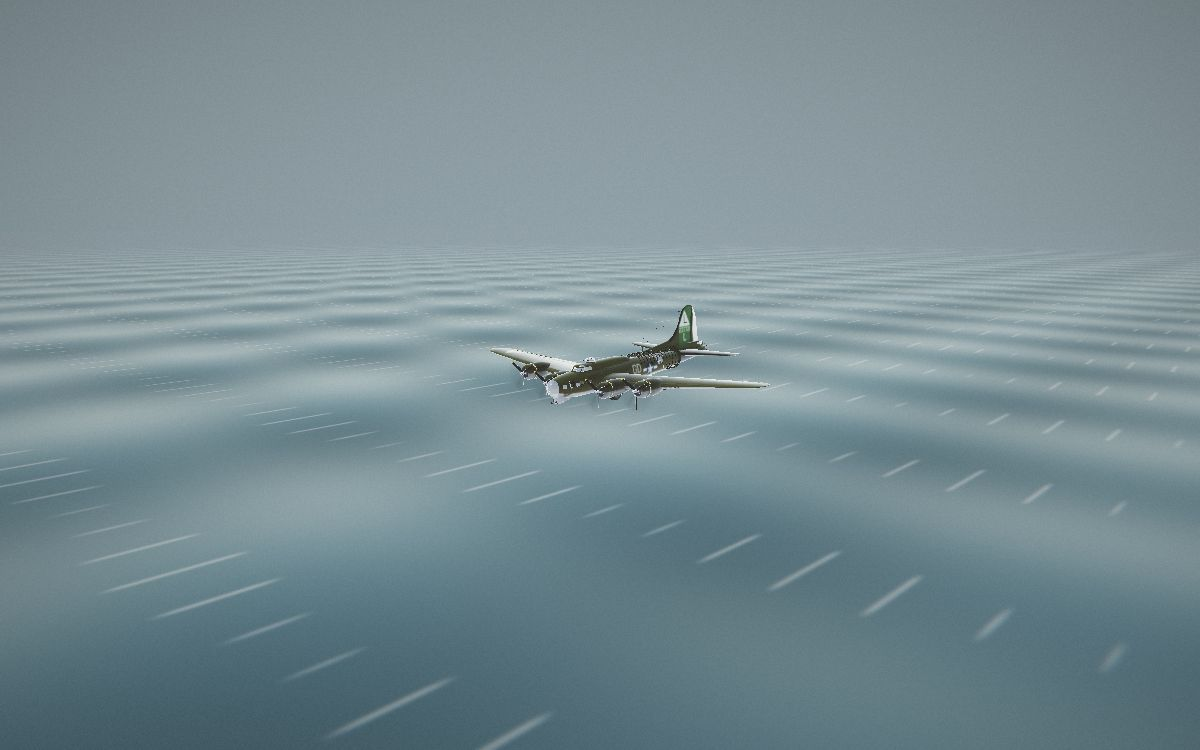
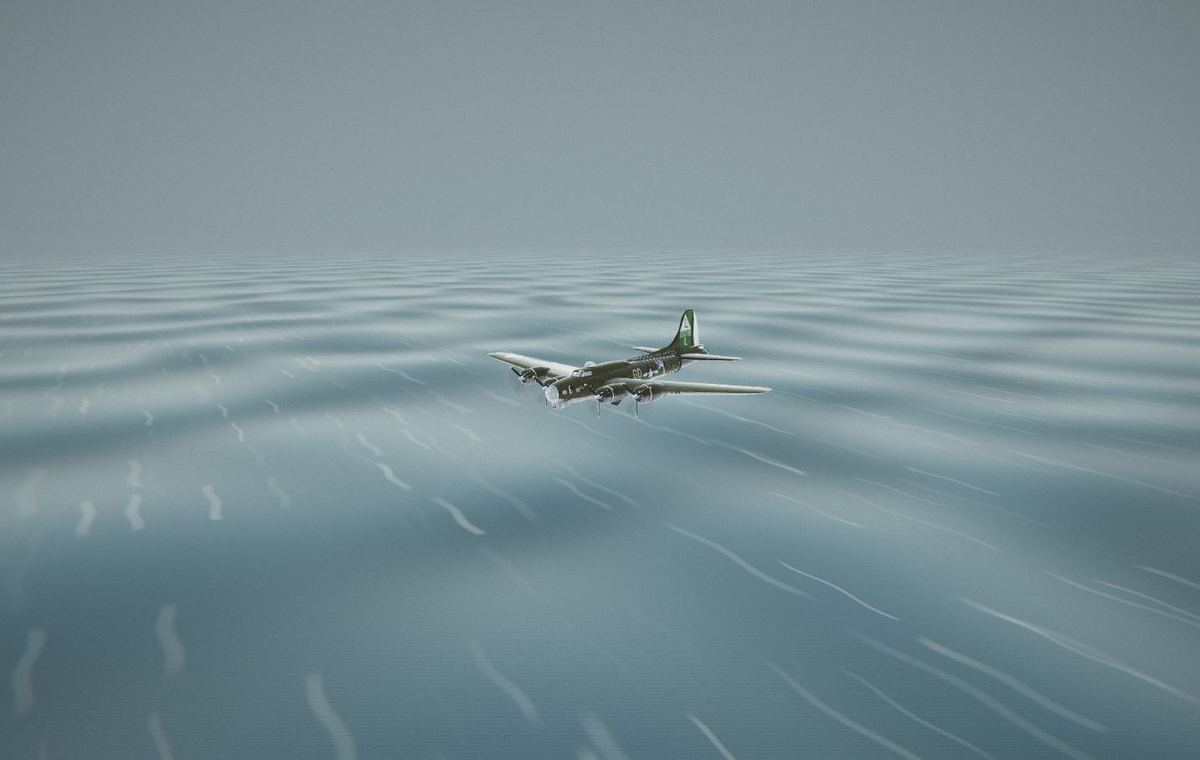
Revise ditching water impact and irregular ocean foam
Replace solid spray meshes with ballistic sheets and pooled mist, add surface foam and wake, and vary wind-aligned whitecaps with distance fade. Refresh day, night and Low visual evidence.

diff --git a/src/world/DitchingSea.ts b/src/world/DitchingSea.ts
@@ -1,4 +1,5 @@
 import * as THREE from 'three';
+import { DitchingSpray } from './DitchingSpray';
 
 const box = new THREE.BoxGeometry(1, 1, 1);
 const sphere = new THREE.SphereGeometry(1, 8, 6);
@@ -21,7 +22,7 @@ function man() {
   return g;
 }
 
-/** Fixed pools, a single analytic ocean shader, no textures or reflection render targets. */
+/** Fixed pools, a single analytic ocean shader, no new textures or reflection targets. */
 export class DitchingSea {
   readonly scene = new THREE.Scene();
   readonly camera = new THREE.PerspectiveCamera(48, 1, 0.1, 6000);
@@ -31,11 +32,7 @@ export class DitchingSea {
   readonly brace = new THREE.Group();
   readonly launch = new THREE.Group();
   readonly flare = new THREE.Mesh(sphere, new THREE.MeshBasicMaterial({ color: 0xff6633 }));
-  readonly spray: THREE.Mesh[] = [];
-  private sprayMotion = Array.from({ length: 64 }, (_, i) => {
-    const h = (n: number) => { const x = Math.sin(n * 12.9898) * 43758.5453; return x - Math.floor(x); };
-    return { delay: h(i + 1) * 0.85, vx: 3 + h(i + 71) * 9, vy: 5 + h(i + 141) * 6, z: h(i + 211) * 21 - 9 };
-  });
+  readonly spray: DitchingSpray;
   private sun: THREE.DirectionalLight;
   private hemi: THREE.HemisphereLight;
   constructor() {
@@ -49,13 +46,40 @@ export class DitchingSea {
         void main(){ vec3 v=position; v.z+=sin(v.x*.09+time*1.4)*.32+sin(v.y*.13-time)*.18;
           vec4 w=modelMatrix*vec4(v,1.); p=w.xyz; gl_Position=projectionMatrix*viewMatrix*w; }`,
       fragmentShader: `varying vec3 p; uniform float time; uniform float night;
-        void main(){ float a=p.x*.09+time*1.4, b=-p.z*.13-time;
+        float hash(vec2 p){return fract(sin(dot(p,vec2(127.1,311.7)))*43758.5453);}
+        float noise(vec2 p){vec2 i=floor(p),f=fract(p); f=f*f*(3.-2.*f);
+          return mix(mix(hash(i),hash(i+vec2(1,0)),f.x),mix(hash(i+vec2(0,1)),hash(i+vec2(1)),f.x),f.y);}
+        float caps(vec2 q){
+          vec2 id=floor(q), f=fract(q); float h=hash(id);
+          float center=.25+.5*hash(id+19.);
+          float width=.035+.09*hash(id+7.);
+          float across=abs(f.y-center+.035*sin(f.x*11.+h*30.));
+          float ends=smoothstep(.05,.2,f.x)*(1.-smoothstep(.35+h*.58,.95,f.x));
+          return (1.-smoothstep(width*.25,width,across))*ends*smoothstep(.38,.85,h);
+        }
+        void main(){ float a=p.x*.09+time*1.4+noise(p.xz*.025)*4., b=-p.z*.13-time+noise(p.zx*.018)*5.;
           vec3 n=normalize(vec3(-.14*cos(a),1.,.11*cos(b)));
           vec3 v=normalize(cameraPosition-p); float f=pow(1.-max(dot(n,v),0.),3.);
-          float streak=pow(max(0.,sin(p.x*.7+sin(p.z*.018+time)*2.)),24.);
-          streak*=smoothstep(.6,.99,sin(p.z*.15-time*1.8)+sin(p.x*.13)*.2);
+          float distance=length(cameraPosition-p);
+          // Two offset wind-aligned scales, random occupancy, width, length and brightness.
+          vec2 wind=vec2(p.x*.94+p.z*.34,-p.x*.34+p.z*.94);
+          wind.x-=time*1.8;
+          float streak=caps(wind/vec2(19.,8.))+caps((wind+vec2(43.,17.))/vec2(31.,13.))*.55;
+          streak*=mix(.18,1.,noise(wind*.075))* (1.-smoothstep(80.,650.,distance));
+          float impact=max(0.,time-11.); float travel=min(35.,impact*8.);
+          vec2 q=p.xz-vec2(0.,12.);
+          float broken=.45+.55*noise(p.xz*.6+time*.15);
+          float radius=length(q*vec2(1.,.7));
+          float ring=exp(-pow((radius-(3.+impact*3.8))/(1.1+impact*.22),2.));
+          ring*=exp(-impact*.22);
+          float tail=travel+10.-p.z;
+          float wakeWidth=3.+max(0.,tail)*.25;
+          float wake=exp(-pow((abs(p.x)-wakeWidth)/1.6,2.));
+          wake*=smoothstep(-2.,4.,tail)*(1.-smoothstep(32.,55.,tail));
+          wake+=exp(-pow(p.x/5.,2.))*smoothstep(0.,4.,tail)*(1.-smoothstep(14.,38.,tail))*.4;
+          float foam=(ring+wake*.65)*broken*smoothstep(0.,.4,impact)*exp(-max(0.,impact-5.)*.09);
           float glint=pow(max(0.,dot(reflect(-normalize(vec3(-.4,.6,.6)),n),v)),110.);
-          vec3 c=mix(vec3(.065,.13,.16),vec3(.29,.38,.4),f)+streak*.13+glint*vec3(.7,.72,.62);
+          vec3 c=mix(vec3(.065,.13,.16),vec3(.29,.38,.4),f)+streak*.11+foam*vec3(.22,.27,.28)+glint*vec3(.7,.72,.62);
           c*=.85+.1*(sin(a)+sin(b)*.45); c*=mix(1.,.38,night); c=mix(c,mix(vec3(.19,.24,.27),vec3(.035,.055,.085),night),smoothstep(150.,1800.,length(cameraPosition-p)));
           gl_FragColor=vec4(c,1.);
           #include <tonemapping_fragment>
@@ -96,8 +120,7 @@ export class DitchingSea {
       this.launch.add(r);
     }
     this.scene.add(this.launch, this.flare); this.flare.scale.setScalar(0.35);
-    const foam = new THREE.MeshBasicMaterial({ color: 0xc5d8dc, transparent: true, opacity: 0.55, depthWrite: false });
-    for (let i = 0; i < 64; i++) this.spray.push(mesh(this.scene, sphere, foam, 0, 0, 0, 1, 1, 1));
+    this.spray = new DitchingSpray(this.scene);
   }
   /** Called by World.prewarm with all materials visible, before play. */
   warm(render: (scene?: THREE.Scene) => void, bomber: THREE.Object3D) {
@@ -106,12 +129,14 @@ export class DitchingSea {
     bomber.traverse(o => { if (!o.visible) { hidden.push(o); o.visible = true; } });
     this.scene.add(bomber); bomber.position.set(0, 2, 0);
     this.camera.position.set(50, 30, 70); this.camera.lookAt(0, 0, 0); this.camera.layers.enableAll();
+    this.spray.update(11.6, false);
     try { render(this.scene); } finally {
+      this.spray.update(0, false);
       if (parent) parent.add(bomber); else bomber.removeFromParent();
       bomber.position.copy(pos); for (const o of hidden) o.visible = false;
     }
   }
-  update(t: number, night: boolean) {
+  update(t: number, night: boolean, low = false) {
     this.sun.intensity = night ? 0.7 : 2.5; this.hemi.intensity = night ? 0.65 : 2;
     this.sea.material.uniforms.time.value = t; this.sea.material.uniforms.night.value = night ? 1 : 0;
     (this.scene.background as THREE.Color).setHex(night ? 0x303e51 : 0x77868c);
@@ -135,13 +160,6 @@ export class DitchingSea {
     this.launch.rotation.z = Math.sin(t) * 0.025;
     this.flare.visible = t >= 21 && t < 27;
     this.flare.position.set(10, 2 + Math.max(0, t - 21) * 8, 9);
-    for (let i = 0; i < 64; i++) {
-      const s = this.spray[i], m = this.sprayMotion[i], u = t - 11 - m.delay;
-      const y = 0.15 + u * m.vy - u * u * 5;
-      s.visible = u > 0 && u < 2.2 && y > 0.1;
-      s.position.set((i % 2 ? -1 : 1) * (2 + u * m.vx), y, m.z + u * 5);
-      s.scale.set(0.15 + Math.max(0, u) * 0.3, 0.25 + Math.max(0, u) * 0.55, 0.18 + Math.max(0, u) * 0.3);
-      s.rotation.z = (i % 2 ? -1 : 1) * 0.55;
-    }
+    this.spray.update(t, night, low);
   }
 }

diff --git a/src/world/DitchingSpray.ts b/src/world/DitchingSpray.ts
@@ -1,0 +1,99 @@
+import * as THREE from 'three';
+import { ParticleSystem, type ParticleOpts, mulberry } from '../render/Particles';
+
+/** One curved spray-sheet draw and one existing atlas-particle draw. All storage is fixed. */
+export class DitchingSpray {
+  readonly particles = new ParticleSystem(320, false);
+  readonly sheet: THREE.Mesh<THREE.BufferGeometry, THREE.ShaderMaterial>;
+  private time = 0;
+  private next = 0;
+  private color = new THREE.Color();
+  private pos = new THREE.Vector3();
+  private vel = new THREE.Vector3();
+  private opts: ParticleOpts = { pos: this.pos, vel: this.vel, color0: this.color, life: 1,
+    size0: 0.4, size1: 1.6, alpha0: 0.4, alpha1: 0, rise: -9.81, rotVel: 0.15 };
+  private drops = (() => {
+    const rnd = mulberry(61);
+    return Array.from({ length: 420 }, (_, i) => {
+      const source = i % 5, side = i % 2 ? -1 : 1;
+      const x = source === 0 ? side * 1.3 : [-10, -5, 5, 10][source - 1];
+      const mist = i % 3 === 0;
+      return { at: 11 + i / 185, x, z: source === 0 ? 12 : 3,
+        vx: side * (4 + rnd() * 14), vy: 3 + rnd() * 8, vz: 5 + rnd() * 13,
+        size: mist ? 1.1 + rnd() : 0.15 + rnd() * 0.5, mist, jitter: rnd() };
+    });
+  })();
+
+  constructor(scene: THREE.Scene) {
+    const positions: number[] = [], uv: number[] = [], lanes: number[] = [], indices: number[] = [];
+    // Nose and four nacelles, each throwing a fan to port and starboard.
+    for (let source = 0; source < 5; source++) for (const side of [-1, 1]) {
+      const base = positions.length / 3;
+      for (let y = 0; y <= 8; y++) for (let x = 0; x <= 20; x++) {
+        positions.push(0, 0, 0); uv.push(x / 20, y / 8);
+        lanes.push(source === 0 ? side * 1.3 : [-10, -5, 5, 10][source - 1], source === 0 ? 12 : 3, side, source * 0.075);
+      }
+      for (let y = 0; y < 8; y++) for (let x = 0; x < 20; x++) {
+        const a = base + y * 21 + x; indices.push(a, a + 1, a + 21, a + 1, a + 22, a + 21);
+      }
+    }
+    const geo = new THREE.BufferGeometry();
+    geo.setAttribute('position', new THREE.Float32BufferAttribute(positions, 3));
+    geo.setAttribute('uv', new THREE.Float32BufferAttribute(uv, 2));
+    geo.setAttribute('lane', new THREE.Float32BufferAttribute(lanes, 4)); geo.setIndex(indices);
+    const material = new THREE.ShaderMaterial({
+      uniforms: { time: { value: 0 }, light: { value: new THREE.Color() } },
+      vertexShader: `attribute vec4 lane; uniform float time; varying vec2 st; varying float age; varying float height;
+        void main(){ st=uv; float launch=lane.w+uv.y*.65; age=time-11.-launch;
+          float u=max(0.,age); float fan=uv.x;
+          vec3 p=vec3(lane.x+lane.z*(3.+fan*16.)*u, .18+(5.+sin(fan*3.14159)*3.)*u-4.905*u*u,
+            lane.y+launch*8.+(19.-fan*12.)*u);
+          height=p.y; gl_Position=projectionMatrix*viewMatrix*vec4(p,1.); }`,
+      fragmentShader: `uniform vec3 light; varying vec2 st; varying float age; varying float height;
+        float hash(vec2 p){return fract(sin(dot(p,vec2(127.1,311.7)))*43758.5453);}
+        float noise(vec2 p){vec2 i=floor(p),f=fract(p);f=f*f*(3.-2.*f);
+          return mix(mix(hash(i),hash(i+vec2(1,0)),f.x),mix(hash(i+vec2(0,1)),hash(i+vec2(1)),f.x),f.y);}
+        void main(){float lace=noise(st*vec2(37.,17.));
+          float edge=smoothstep(0.,.12,st.x)*smoothstep(0.,.12,1.-st.x)*smoothstep(0.,.18,st.y)*smoothstep(0.,.18,1.-st.y);
+          float a=edge*smoothstep(0.,.1,age)*(1.-smoothstep(.35,1.65,age))*smoothstep(0.,.45,height);
+          a*=smoothstep(.23,.65,lace)*.42;
+          gl_FragColor=vec4(light*(.75+.25*lace),a);
+          #include <tonemapping_fragment>
+          #include <colorspace_fragment>
+        }`, transparent: true, depthWrite: false, side: THREE.DoubleSide, forceSinglePass: true,
+    });
+    this.sheet = new THREE.Mesh(geo, material); this.sheet.frustumCulled = false;
+    scene.add(this.sheet, this.particles.mesh);
+  }
+
+  update(t: number, night: boolean, low = false) {
+    if (t < this.time) { this.time = 0; this.next = 0; this.particles.clear(); }
+    // Studio sky lighting, rather than the high-altitude world's Atmos light state.
+    this.color.setRGB(night ? 0.18 : 0.7, night ? 0.23 : 0.8, night ? 0.3 : 0.84);
+    this.sheet.material.uniforms.light.value.copy(this.color);
+    this.sheet.material.uniforms.time.value = t;
+    this.sheet.visible = t > 11 && t < 14;
+    while (this.next < this.drops.length && this.drops[this.next].at <= t) {
+      const d = this.drops[this.next++];
+      this.advance(d.at);
+      if (low && this.next % 2 === 0) continue;
+      const o = this.opts;
+      this.pos.set(d.x + (d.jitter - 0.5), 0.3, d.z + (d.at - 11) * 8);
+      const force = 1 - (d.at - 11) * 0.18;
+      this.vel.set(d.vx * force, d.vy * force, d.vz * force);
+      // Expire at water contact; gravity carries the visible spray back down.
+      o.life = (this.vel.y + Math.sqrt(this.vel.y * this.vel.y + 2 * 9.81 * 0.3)) / 9.81;
+      o.size0 = d.size; o.size1 = d.size * (d.mist ? 2.8 : 1.5);
+      o.alpha0 = d.mist ? 0.25 : 0.65;
+      this.particles.spawn(o);
+    }
+    this.advance(t);
+  }
+  private advance(t: number) {
+    // Bounded substeps also support deterministic dev-hook seeks and skipping to rescue.
+    while (this.time < t) {
+      const dt = Math.min(1 / 60, t - this.time); this.time += dt;
+      if (this.particles.count) this.particles.update(dt);
+    }
+  }
+}

diff --git a/tests/ditching.test.ts b/tests/ditching.test.ts
@@ -9,6 +9,11 @@ import { CrewRoster } from '../src/game/CrewRoster';
 import { Crew } from '../src/world/Crew';
 import { stubStorage } from './helpers';
 vi.hoisted(() => { vi.stubGlobal('window', {}); });
+function seaScene() {
+  const context = { createRadialGradient: () => ({ addColorStop() {} }), fillRect() {}, beginPath() {}, arc() {}, fill() {}, save() {}, rect() {}, clip() {}, restore() {} };
+  vi.stubGlobal('document', { createElement: () => ({ getContext: () => context }) });
+  return new DitchingSea();
+}
 const state: DitchState = { campaign: true, gunner: true, coop: false, controllable: true, enginesOut: 0, integrity: 1, leaking: false, progress: 0.8, coastKm: 48, ending: true };
 afterEach(() => vi.restoreAllMocks());
 
@@ -61,12 +66,21 @@ describe('rescue outcome and content', () => {
     for (const s of [...Object.values(DITCH_TEXT), ...DITCH_RADIO.map(l => l[1])]) expect(hasPhrase(s), s).toBe(true);
   });
   it('keeps ten crew, launches two dinghies, signals and brings the rescue launch alongside', () => {
-    const s = new DitchingSea();
+    const s = seaScene();
     s.update(6, false); expect(s.brace.visible).toBe(true); expect(s.crew.every(c => c.parent === s.brace)).toBe(true);
-    s.update(12, false); expect(s.spray.some(p => p.visible)).toBe(true);
+    s.update(12, false); expect(s.spray.particles.count).toBeGreaterThan(0); expect(s.spray.sheet.visible).toBe(true);
     s.update(18, false); expect(s.rafts.every(r => r.visible)).toBe(true); expect(s.crew.every(c => s.rafts.includes(c.parent as any))).toBe(true);
     s.update(23, true); expect(s.flare.visible).toBe(true); expect(s.launch.visible).toBe(true);
     s.update(31, true); expect(s.launch.position.z).toBe(0); expect(s.flare.visible).toBe(false);
+  });
+  it('bounds spray, clears it after settling and resets correctly for replay and Low', () => {
+    const s = seaScene();
+    s.update(12.3, false); const full = s.spray.particles.count;
+    expect(full).toBeGreaterThan(100); expect(full).toBeLessThanOrEqual(320);
+    s.update(17, false); expect(s.spray.particles.count).toBe(0); expect(s.spray.sheet.visible).toBe(false);
+    s.update(0, false, true); s.update(12.3, false, true);
+    expect(s.spray.particles.count).toBeGreaterThan(0); expect(s.spray.particles.count).toBeLessThan(full);
+    s.update(31, true, true); expect(s.spray.particles.count).toBe(0);
   });
   it('water sounds are finite, audible and bounded', () => {
     for (const make of [seaWash, waterImpact]) {

diff --git a/src/game/Ditching.ts b/src/game/Ditching.ts
@@ -124,7 +124,7 @@ export class Ditching {
 
   private pose() {
     const g = this.g, sea = g.world.ditchingSea, t = this.time, b = this.b!;
-    sea.update(t, g.mission?.weather?.mood === 'night');
+    sea.update(t, g.mission?.weather?.mood === 'night', g.settings.quality === 'low');
     const cam = sea.camera; cam.aspect = g.engine.camera.aspect; cam.updateProjectionMatrix();
     const shot = t < 5 ? 0 : t < 9 ? 1 : t < 16 ? 2 : t < 22 ? 3 : 4;
     if (shot !== this.shot) {

diff --git a/docs/phase6/reports/06.md b/docs/phase6/reports/06.md
@@ -50,15 +50,17 @@ sws.step(240, 1 / 60, true); // debrief
 sws.engine.loopOverride = undefined;
 ```
 
-## Incomplete: recorded voice assets
+## Revision
 
-Five radio lines were inserted before the briefings group in `tools/voice/lines.json`, with Arabic and regenerated `src/audio/voiceLines.ts`. **`python3 tools/voice/generate.py` was attempted but could not create the five M4A clips:** macOS `say` reported `sandbox_extension_issue_file failed for /usr/bin: Operation not permitted` and returned silent audio; the generator rejected it with `RuntimeError: silent render`. Existing recordings/manifest were left intact. The scene uses the existing speech/static fallback when the new recorded ID is unavailable. Re-run that command in a normal macOS terminal to finish the recordings. No push or deployment.
+Merged local `main` first in `69dc52f`, resolving shared gameplay, campaign, co-op, bombardier, translation and voice-manifest conflicts without dropping either side. The first-pass commit and five rendered voice clips were already present when this revision began; the earlier voice/commit blockers are resolved. The merged crew rules can randomly hospitalize a wounded crewman, so the existing wound test now fixes randomness before the wound event.
 
+- Replaced 64 solid spray meshes with `src/world/DitchingSpray.ts`: one curved, perforated sheet mesh fans forward and sideways from the nose and four nacelles; one pooled `ParticleSystem` reuses the existing soft atlas for mist and droplets. Gravity returns particles to the water, lifetime ends at contact, and sky-tinted day/night colors avoid emissive white discs. Fixed capacity **320**, with half-rate emissions on Low; no new per-frame object construction in the ditching controller.
+- `src/world/DitchingSea.ts:46`: irregular wind-aligned whitecaps use two offset scales with varied occupancy, width, length and brightness; distance attenuation and ocean fog fade the caps. A broken expanding foam ring and widening wake stay in the ocean shader around the settling aircraft.
+- Hooks: `src/game/Ditching.ts:127` passes the Low preset; `src/world/DitchingSea.ts:123` creates the pool, `:132` warms visible spray via the existing `src/world/World.ts:306` prewarm hook, and `:163` advances it. No new strings, dependencies or voice changes.
+- `npm run check`: **49 files / 536 tests passed**, including pool bounds, settling cleanup, replay reset and Low density. Native Chrome on port **5254** drove `sws.step` in a temporary QA page. High, Low and High/night reached debrief with one bomber loss, no surviving spray and no console errors. No new shader programs during any scene: final runs **103 → 103**, **82 → 82**, **103 → 103**. See [revision-verification.json](../shots/06/revision-verification.json).
+- Spray costs two draws (sheet + instanced atlas), replacing up to 64 mesh draws. Thirty GPU-synchronized, frozen impact frames averaged **6.56 ms High**, **3.40 ms Low**, **5.50 ms High/night** on this machine; these are local spot measurements, not a cross-device benchmark. The full studio/post frame used 293 draws, predominantly the aircraft. At 11.65 s, High had 121 particles and Low 61.
+- Replaced [descent](../shots/06/01-descent.jpg), [impact](../shots/06/03-impact.jpg), [dinghies](../shots/06/04-dinghies.jpg), [rescue](../shots/06/05-rescue.jpg) and [night rescue](../shots/06/08-night-rescue.jpg); added [settling](../shots/06/04-settling.jpg), [night impact](../shots/06/09-night-impact.jpg) and [Low impact](../shots/06/10-low-impact.jpg). Bracing and debrief captures were also refreshed. The Arabic capture and original verification JSON remain first-pass evidence.
 
-## Incomplete: commit blocked by filesystem sandbox
+To reproduce the revised impact, use the existing force steps above but advance **699 frames** (11.65 s); settling is at **870 frames** (14.5 s). For a canvas capture, call `sws.engine.renderOverride(1 / 60)` and then `sws.engine.renderer.domElement.toDataURL('image/jpeg', 0.78)`; `sws.shot()` renders the main world rather than the studio override.
 
-The requested `git add` failed before staging any files: `fatal: Unable to create '/Users/Digital Next/Projects/Sky War Shooter 3D/.git/worktrees/codex-06-ditching/index.lock': Operation not permitted`. The session cannot request elevated permissions. All implementation, tests, screenshots and this report remain uncommitted on **phase6/06-ditching**; no branch or Git configuration was changed. To finish after Git metadata writes are available, stage the changed source/tests plus this report and `docs/phase6/shots/06/` (exclude `node_modules`), then commit with a message ending in:
-
-```text
-Co-Authored-By: OpenAI Codex <noreply@openai.com>
-```
+Temporary QA files/capture server removed and the port-5254 dev server stopped. Nothing outstanding; no push or deployment.
